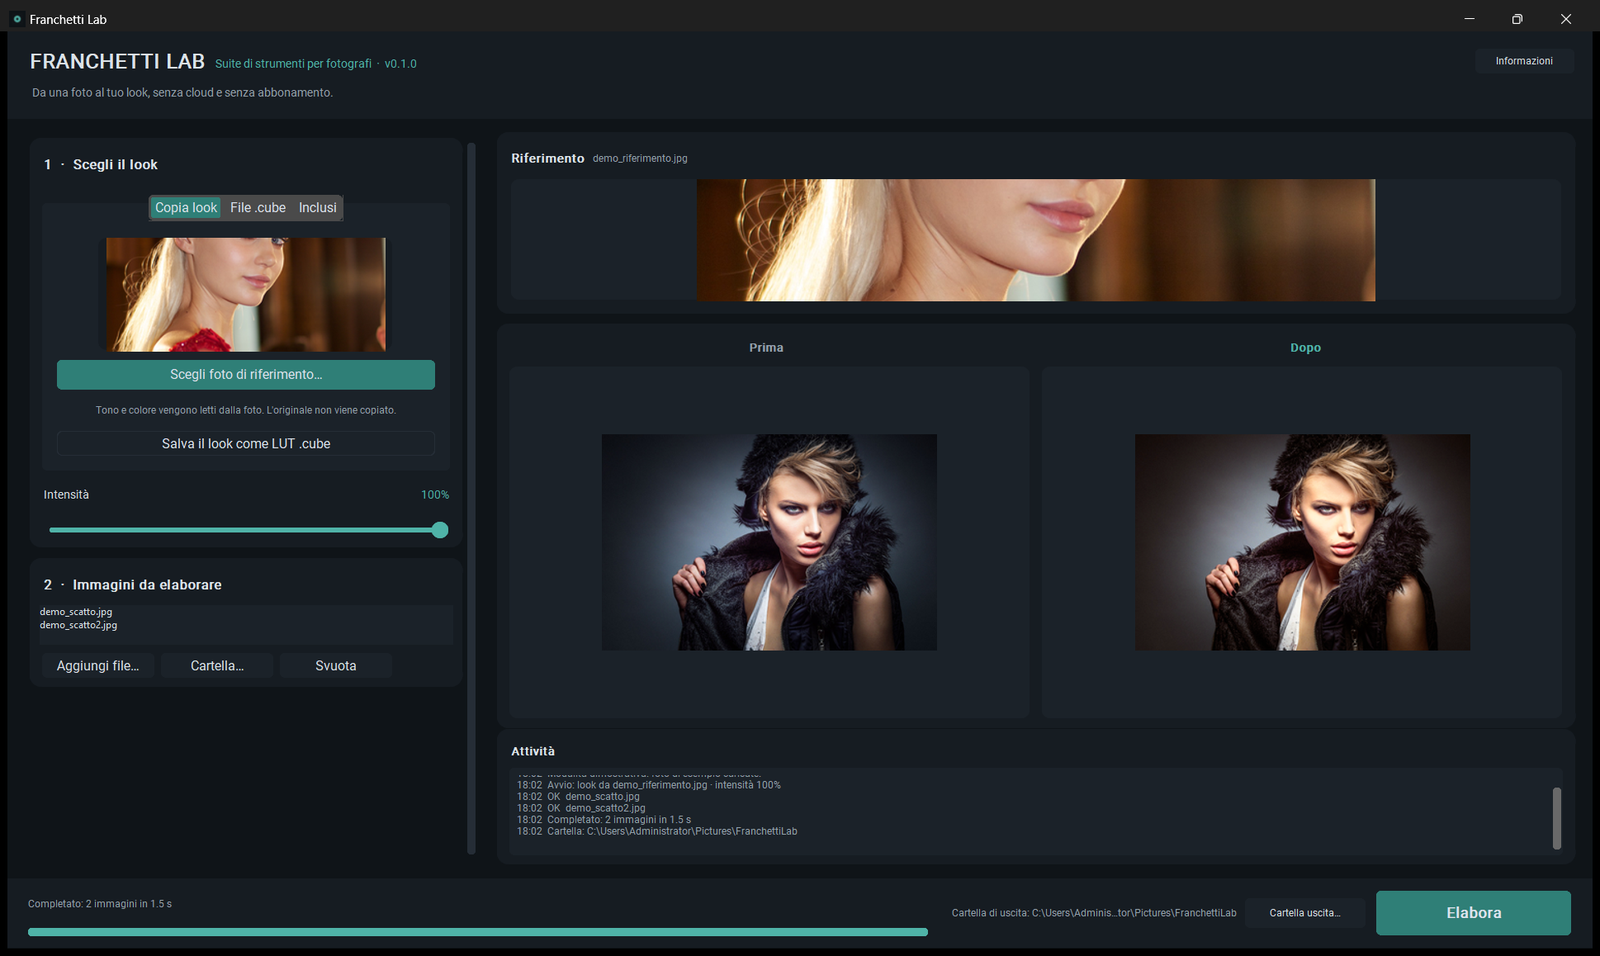
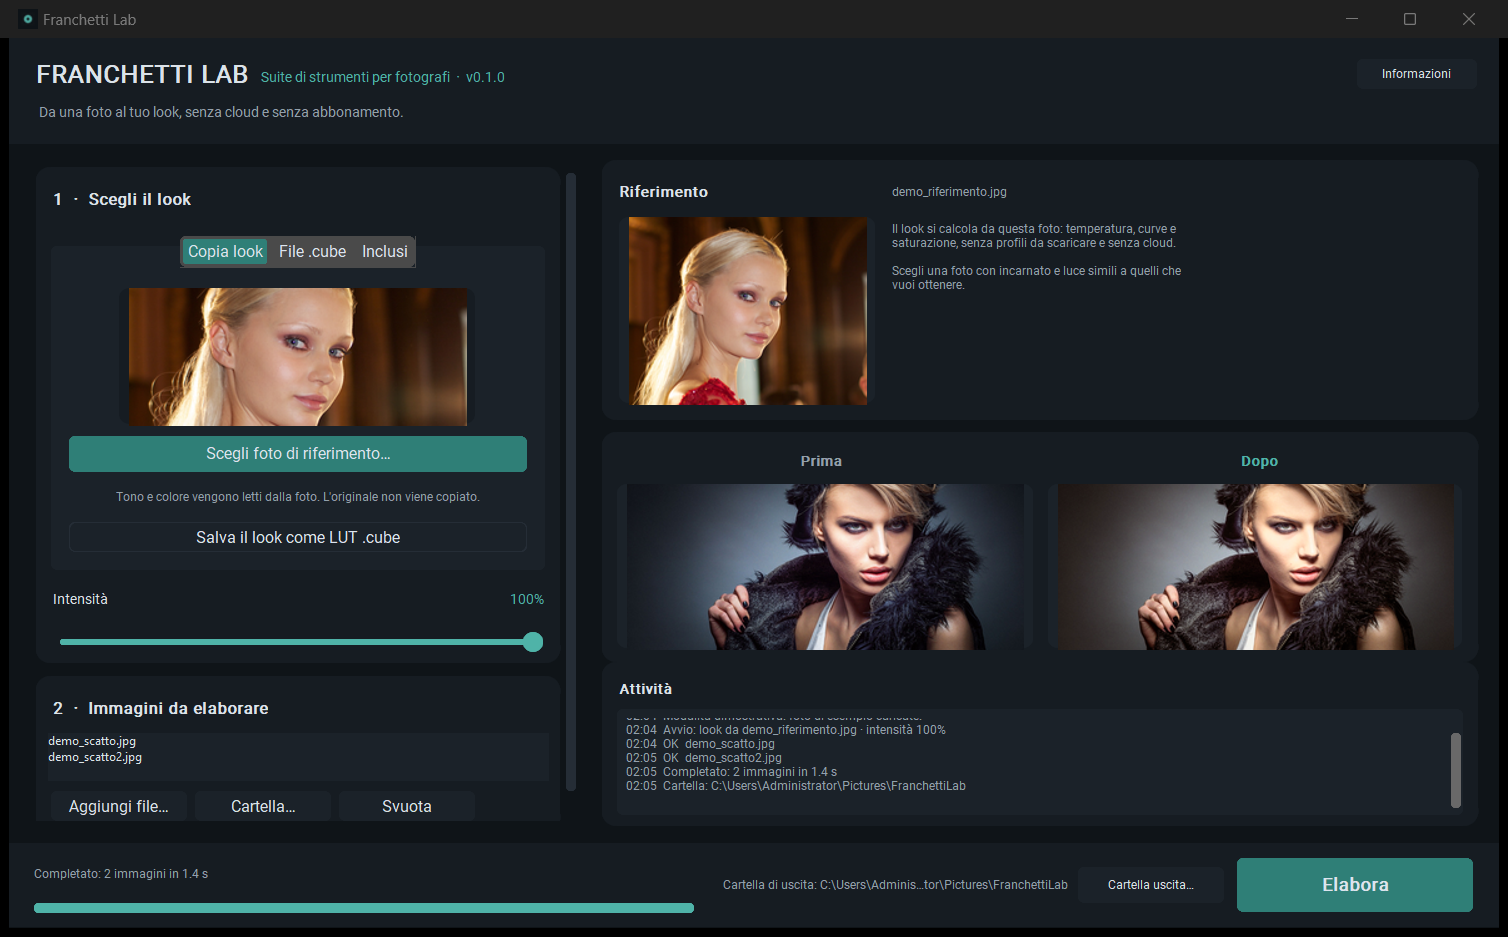
Schermata Elaborazione aggiornata alla nuova interfaccia

diff --git a/guida.html b/guida.html
@@ -410,7 +410,7 @@
         <figure>
           <img src="assets/lab-elaborazione.png"
                alt="Elaborazione completata di due immagini, con il registro delle operazioni e il tempo impiegato."
-               width="1600" height="956" loading="lazy" />
+               width="1508" height="937" loading="lazy" />
           <figcaption><span>Fig. 03</span> Al termine il registro riporta i file scritti, gli eventuali errori e la durata. La cartella di uscita resta visibile in basso.</figcaption>
         </figure>
 
